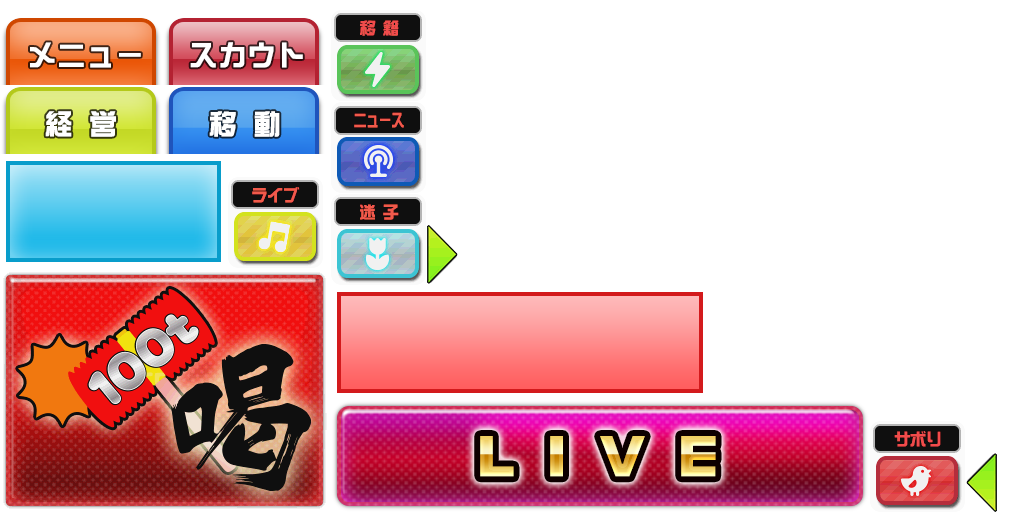
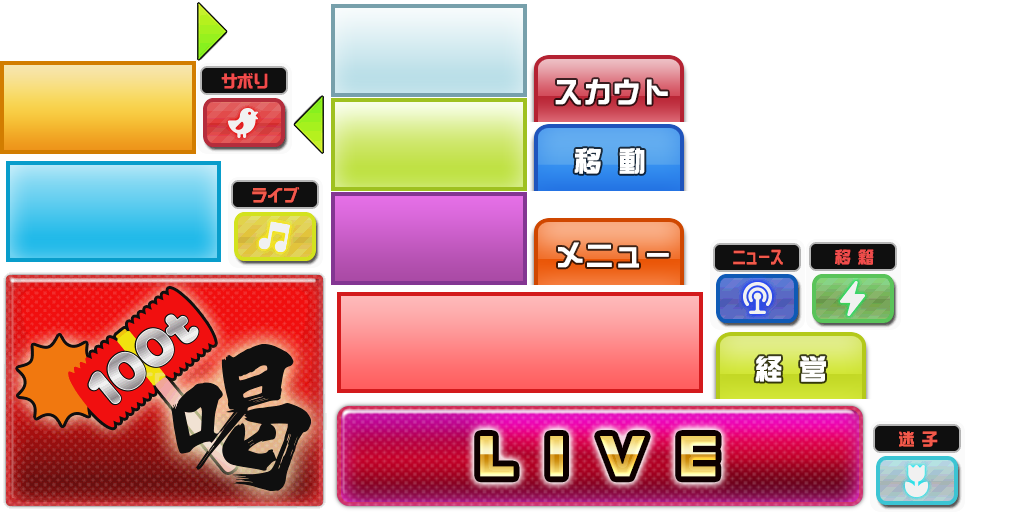
ダイアログの編集を完了

Changed region(s): [[0.0, 0.0, 0.875, 0.7812], [0.8438, 0.8438, 1.0, 1.0]]

diff --git a/Assets/Scripts/Manager/PuzzleSceneManager.cs b/Assets/Scripts/Manager/PuzzleSceneManager.cs
@@ -7,9 +7,6 @@ public class PuzzleSceneManager : MonoSingleton<PuzzleSceneManager> {
 	public bool FlagBackButtonClicked{ get; set; }
 
 	public GameObject puzzleTablePrefab;
-	public GameObject continueDialogObject;
-	public GameObject finishPuzzleDialogObject;
-	public GameObject getIdleDialogObject;
 	public Transform uiRoot;
 	public Transform puzzleTableParent;
 	public UILabel remainingTapCountLabel;
@@ -59,9 +56,7 @@ public class PuzzleSceneManager : MonoSingleton<PuzzleSceneManager> {
 		targetGrid.repositionNow = true;
 		string id = targetTag.Remove (0, 5);
 		FenceManager.instance.ShowFence ();
-		getIdleDialogObject.SetActive (true);
-		GetIdleDialogManager getIdleManager = getIdleDialogObject.GetComponentInChildren<GetIdleDialogManager> ();
-		getIdleManager.Show (Convert.ToInt32 (id));
+		GetIdleDialogManager.instance.Show (Convert.ToInt32 (id));
 		//パズルクリアカウントを更新
 		int[] clearedPuzzleCountArray = PrefsManager.instance.ClearedPuzzleCountArray;
 		clearedPuzzleCountArray [ScoutStageManager.SelectedAreaId - 1]++;
@@ -78,14 +73,14 @@ public class PuzzleSceneManager : MonoSingleton<PuzzleSceneManager> {
 			FinishedAnswerCheckEvent ();
 		} else {
 			FenceManager.instance.ShowFence ();
-			continueDialogObject.SetActive (true);
+			ContinueDialogManager.instance.Show ();
 		}
 	}
 
 	//パズルを終了する
 	void FinishPuzzleEvent () {
 		FenceManager.instance.HideFence ();
-		continueDialogObject.SetActive (false);
+		ContinueDialogManager.instance.Dismiss ();
 		//答え合わせ
 		FenceManager.instance.ShowTransparentFence ();
 		PuzzleTable puzzleTable = puzzleTableParent.GetComponentInChildren<PuzzleTable> ();
@@ -96,14 +91,12 @@ public class PuzzleSceneManager : MonoSingleton<PuzzleSceneManager> {
 	void FinishedAnswerCheckEvent () {
 		FenceManager.instance.HideTransparentFence ();
 		FenceManager.instance.ShowFence ();
-		finishPuzzleDialogObject.SetActive (true);
-		FinishPuzzleDialogManager manager = finishPuzzleDialogObject.GetComponentInChildren<FinishPuzzleDialogManager> ();
-		manager.Show ();
+		FinishPuzzleDialogManager.instance.Show ();
 	}
 
 	//リトライ
 	void RetryEvent (int coinCount) {
-		finishPuzzleDialogObject.SetActive (false);
+		FinishPuzzleDialogManager.instance.Dismiss ();
 		FenceManager.instance.HideFence ();
 		System.Collections.Generic.List<Transform> childList = targetGrid.GetChildList ();
 		foreach (Transform childTransform in childList) {
@@ -120,7 +113,7 @@ public class PuzzleSceneManager : MonoSingleton<PuzzleSceneManager> {
 		mRemainingTapCount += 5;
 		mContinueCount++;
 		FenceManager.instance.HideFence ();
-		continueDialogObject.SetActive (false);
+		ContinueDialogManager.instance.Dismiss ();
 	}
 						
 	//ステージにもどる

diff --git a/Assets/Scripts/Dialog/GetIdleDialogManager.cs b/Assets/Scripts/Dialog/GetIdleDialogManager.cs
@@ -2,37 +2,50 @@
 using System.Collections;
 using System;
 
-public class GetIdleDialogManager : MonoBehaviour {
+public class GetIdleDialogManager : MonoSingleton<GetIdleDialogManager> {
 
 	public static event Action ClosedEvent;
 
-	public UISprite mIdleSprite;
-	public UILabel titleLabel;
-	private Stage mStage;
+	private UILabel mTitleLabel;
+	private UISprite mIdleSprite;
 	private int mIdleId;
+	private GameObject mDialogObject;
 
-	public void OnCloseButtonClicked(){
-		mStage.UpdatedDate = DateTime.Now.ToString ();
-		StageDao dao = DaoFactory.CreateStageDao ();
-		dao.UpdateRecord (mStage);
+	void CompleteDismissEvent(){
 		FenceManager.instance.HideFence ();
+		mDialogObject.SetActive (false);
+		gameObject.transform.localScale = new Vector3 (1,1,1);
 		ClosedEvent ();
-		transform.parent.gameObject.SetActive (false);
-		GetIdolSoundManager.instance.PlayVoice (mIdleId-1);
 	}
 
-	public void Show(int id){
+	public override void OnInitialize () {
+		mDialogObject = transform.FindChild ("Dialog").gameObject;
+		mIdleSprite = mDialogObject.transform.FindChild ("IdleSprite").GetComponent<UISprite> ();
+		mTitleLabel = mDialogObject.transform.FindChild ("TitleLabel").GetComponent<UILabel> ();
+	}
+
+	public void DebutButtonClicked () {
+		iTweenEvent.GetEvent (gameObject,"DismissEvent").Play();
+		GetIdolSoundManager.instance.PlayVoice (mIdleId - 1);
+	}
+
+	public void Show (int id) {
 		mIdleId = id;
 		StageDao dao = DaoFactory.CreateStageDao ();
-		mStage = dao.SelectById (id);
-		mStage.IdleCount++;
+		Stage	stage = dao.SelectById (id);
+		stage.IdleCount++;
+		stage.UpdatedDate = DateTime.Now.ToString ();
+		dao.UpdateRecord (stage);
+		mDialogObject.SetActive (true);
 		mIdleSprite.spriteName = "idle_normal_" + id;
 		System.Text.StringBuilder sb = new System.Text.StringBuilder ();
-		sb.Append (mStage.AreaName + "の子をスカウトした！");
+		sb.Append (stage.AreaName + "の子をスカウトした！");
 		sb.Append ("\n");
-		sb.Append ( mStage.IdleCount + " / 25");
-		titleLabel.text = sb.ToString ();
+		sb.Append (stage.IdleCount + " / 25");
+		mTitleLabel.text = sb.ToString ();
 		mIdleSprite.width = mIdleSprite.GetAtlasSprite ().width * 2;
 		mIdleSprite.height = mIdleSprite.GetAtlasSprite ().height * 2;
+		iTweenEvent.GetEvent (gameObject, "ShowEvent").Play ();
 	}
+		
 }

diff --git a/Assets/Scripts/Dialog/ContinueDialogManager.cs b/Assets/Scripts/Dialog/ContinueDialogManager.cs
@@ -2,10 +2,21 @@
 using System.Collections;
 using System;
 
-public class ContinueDialogManager : MonoBehaviour {
+public class ContinueDialogManager : MonoSingleton<ContinueDialogManager> {
 
 	public static event Action FinishPuzzleEvent;
 	public static event Action BuyTapCountEvent;
+	private GameObject mDialogObject;
+
+	public override void OnInitialize (){
+		mDialogObject = transform.FindChild ("Dialog").gameObject;
+	}
+
+	void CompleteDismissEvent(){
+		FenceManager.instance.HideFence ();
+		mDialogObject.SetActive (false);
+		gameObject.transform.localScale = new Vector3 (1,1,1);
+	}
 
 	public void OnFinishPuzzleClicked(){
 		FinishPuzzleEvent ();
@@ -16,5 +27,14 @@ public class ContinueDialogManager : MonoBehaviour {
 		BuyTapCountEvent ();
 		PlayerDataKeeper.instance.DecreaseTicketCount (1);
 		SoundManager.instance.PlaySE (SoundManager.SE_CHANNEL.Button);
+	}
+
+	public void Show(){
+		mDialogObject.SetActive (true);
+		iTweenEvent.GetEvent (gameObject,"ShowEvent").Play();
+	}
+
+	public void Dismiss(){
+		iTweenEvent.GetEvent (gameObject,"DismissEvent").Play();
 	}
 }

diff --git a/Assets/Scripts/Manager/FinishPuzzleDialogManager.cs b/Assets/Scripts/Manager/FinishPuzzleDialogManager.cs
@@ -11,6 +11,18 @@ public class FinishPuzzleDialogManager : MonoSingleton<FinishPuzzleDialogManager
 
 	private int mCost;
 
+	private GameObject mDialogObject;
+
+	public override void OnInitialize (){
+		mDialogObject = transform.FindChild ("Dialog").gameObject;
+	}
+
+	void CompleteDismissEvent(){
+		FenceManager.instance.HideFence ();
+		mDialogObject.SetActive (false);
+		gameObject.transform.localScale = new Vector3 (1,1,1);
+	}
+
 	public void OnBackToStageClicked(){
 		BackToStageEvent();
 		SoundManager.instance.PlaySE (SoundManager.SE_CHANNEL.Button);
@@ -23,7 +35,13 @@ public class FinishPuzzleDialogManager : MonoSingleton<FinishPuzzleDialogManager
 	}
 
 	public void Show(){
+		mDialogObject.SetActive (true);
+		iTweenEvent.GetEvent (gameObject,"ShowEvent").Play();
 		mCost = AreaCostCaluculator.instance.CalcCost (ScoutStageManager.SelectedAreaId -1);
 		costLabel.text = "" + mCost;
+	}
+
+	public void Dismiss(){
+		iTweenEvent.GetEvent (gameObject,"DismissEvent").Play();
 	}
 }
